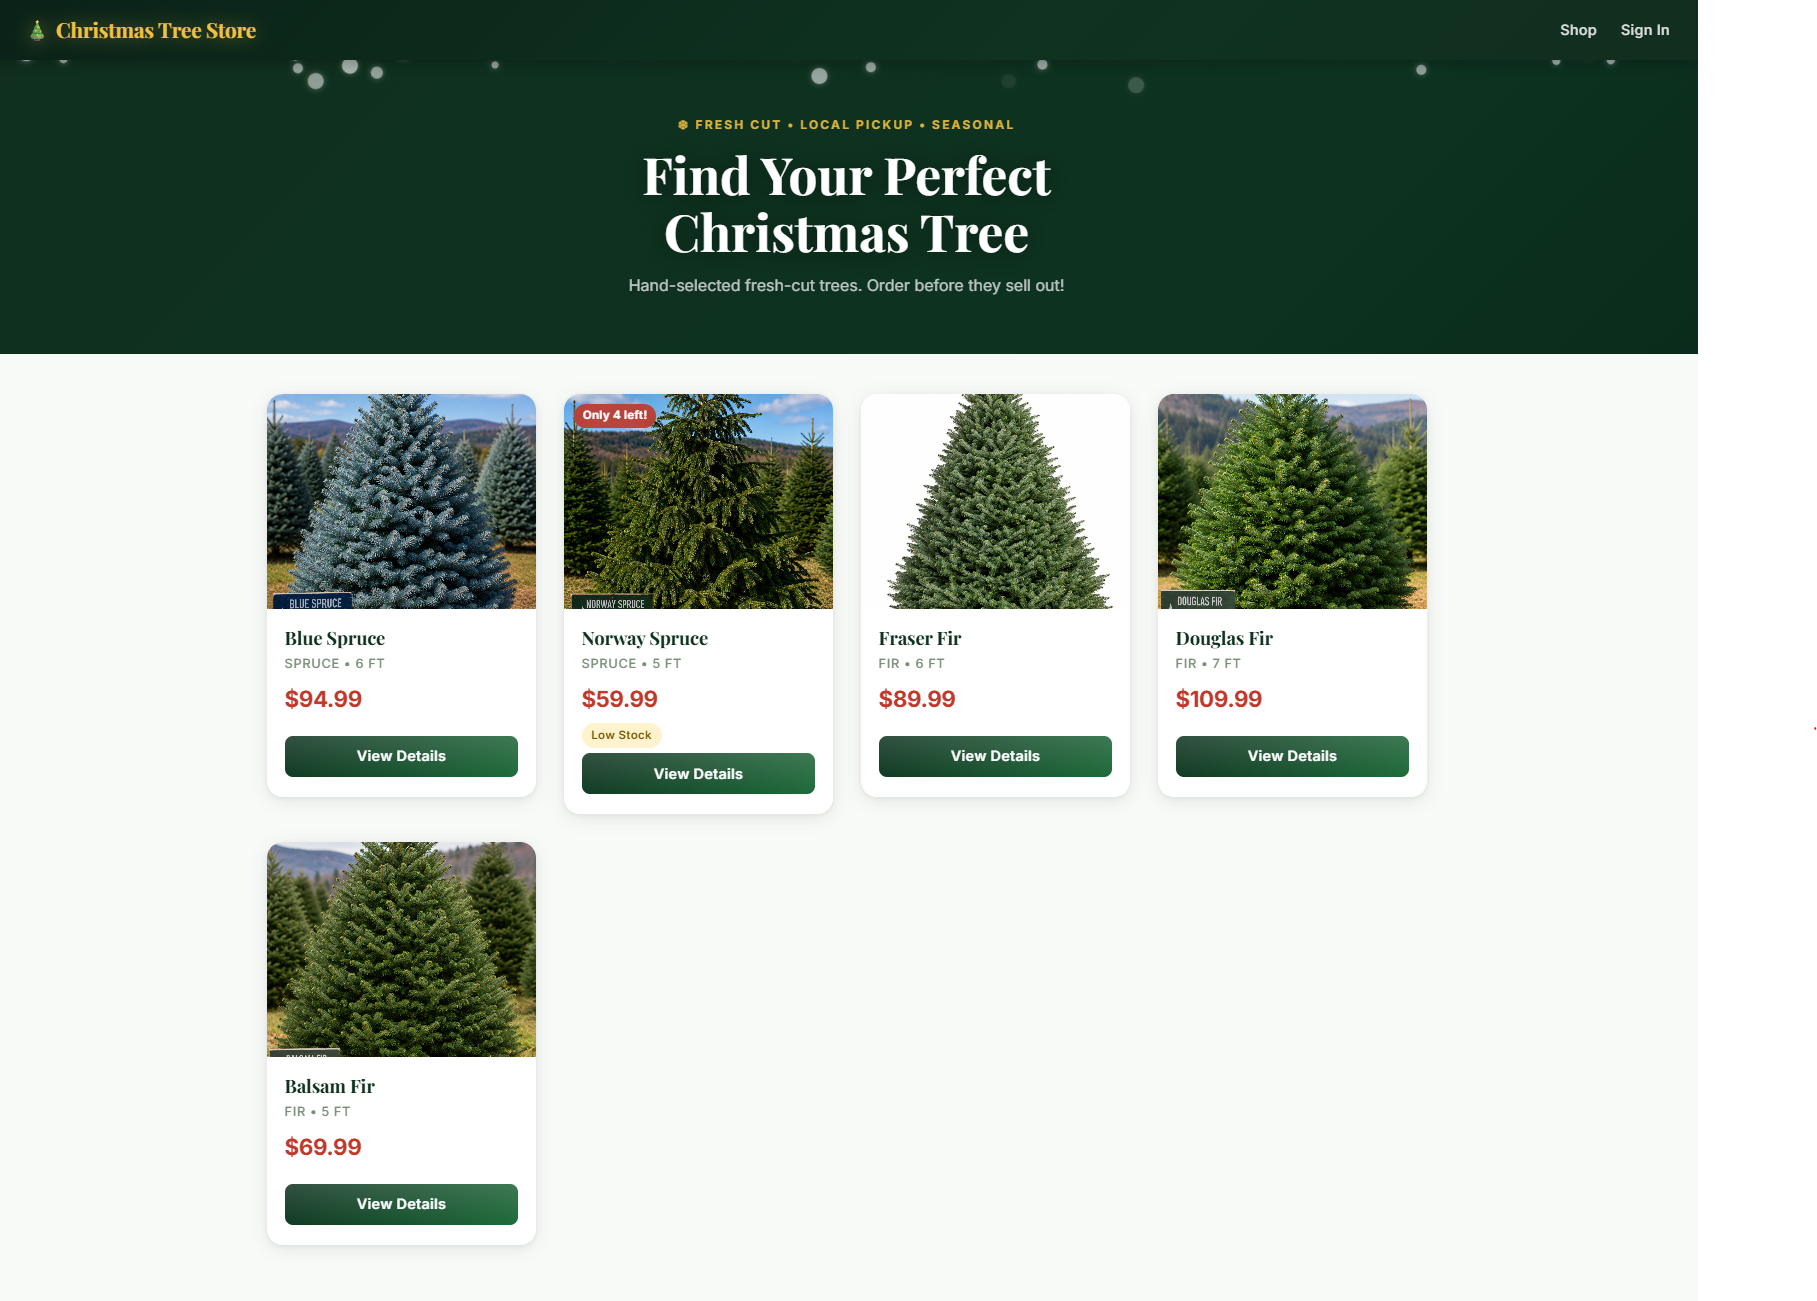
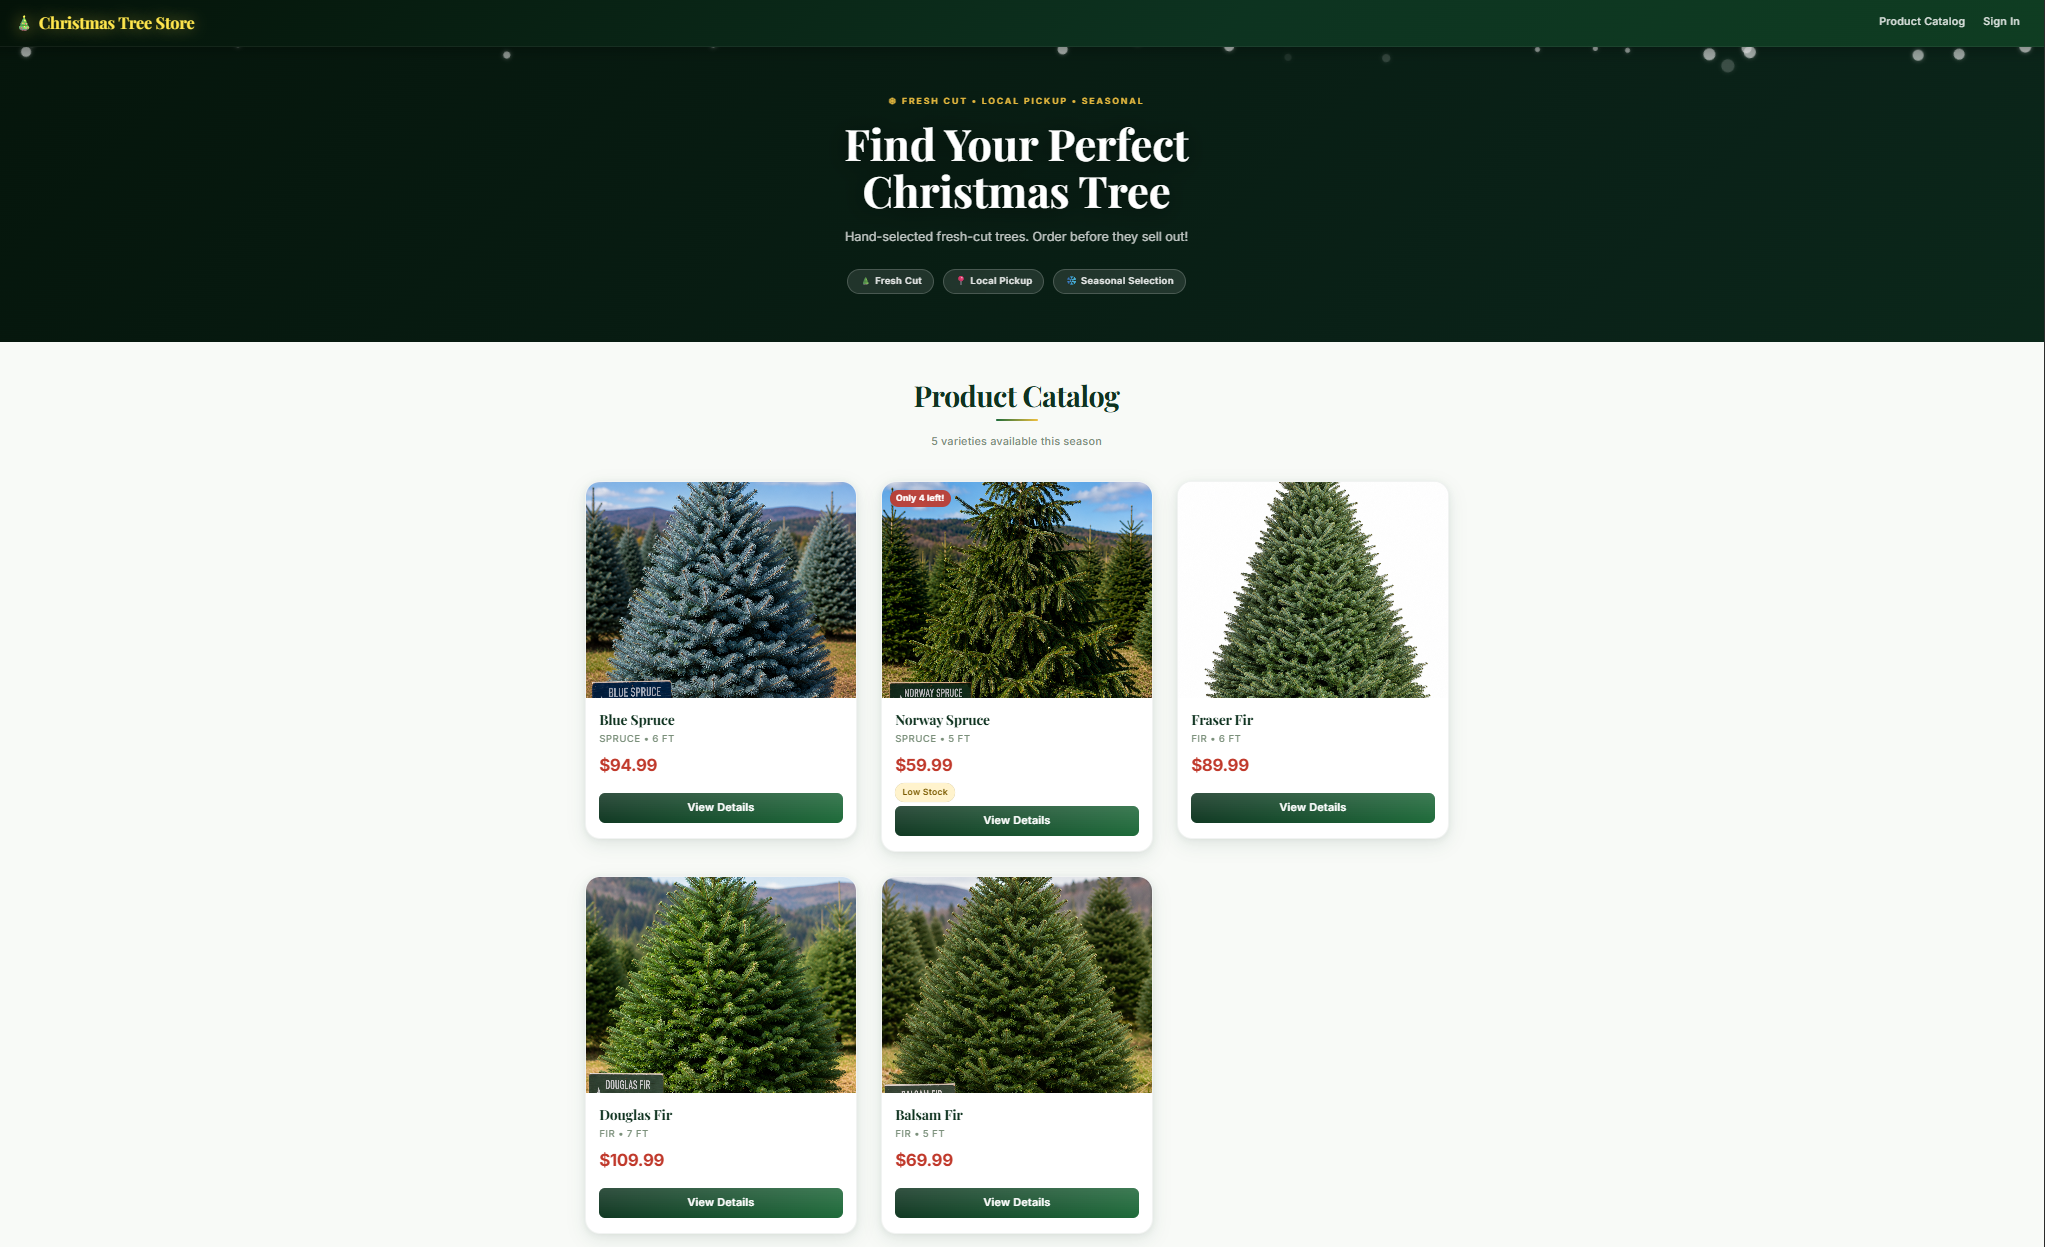
fix: equal-height card alignment; update store screenshot

diff --git a/frontend/src/components/TreeCard.module.css b/frontend/src/components/TreeCard.module.css
@@ -2,6 +2,9 @@
 
 .outer {
   animation: fadeInUp 0.55s ease both;
+  height: 100%;
+  display: flex;
+  flex-direction: column;
 }
 
 @keyframes fadeInUp {
@@ -13,6 +16,7 @@
   position: relative;
   background: #ffffff;
   border-radius: 20px;
+  height: 100%;
   box-shadow:
     0 2px 8px rgba(15, 51, 32, 0.07),
     0 8px 24px rgba(15, 51, 32, 0.09);
